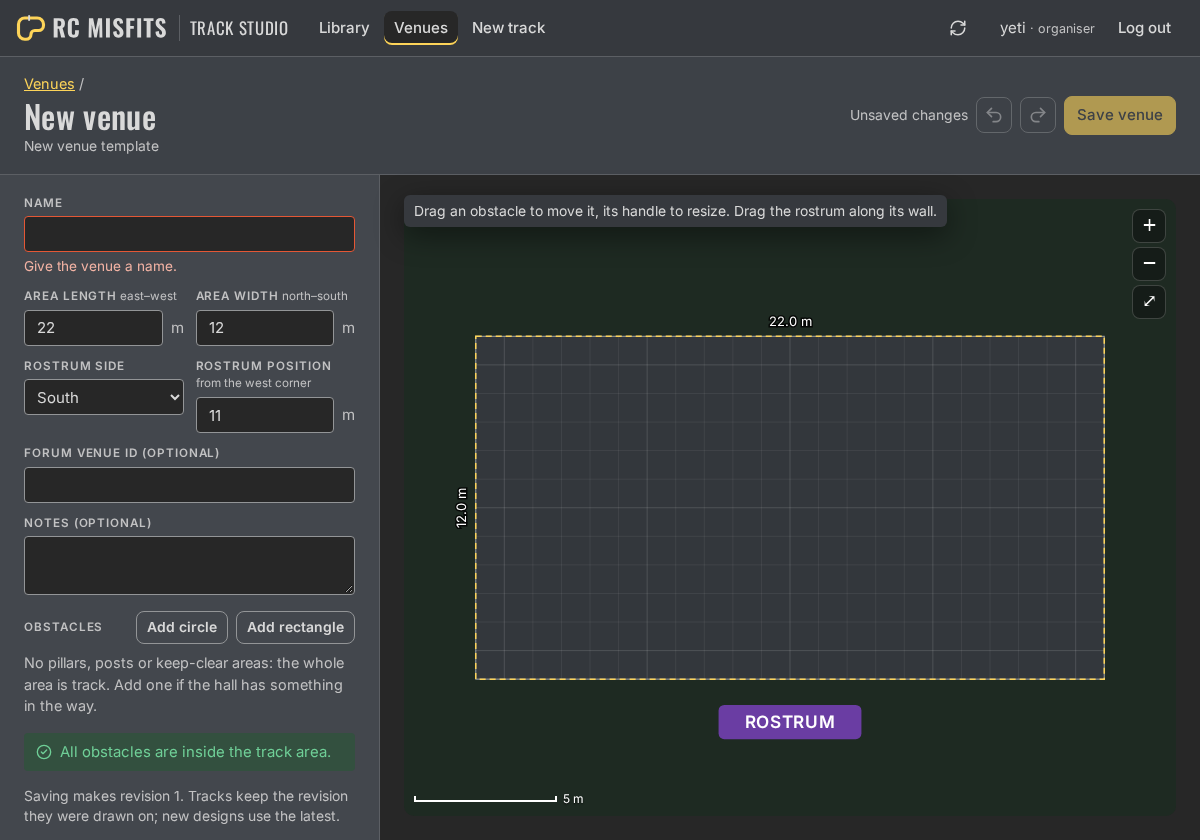
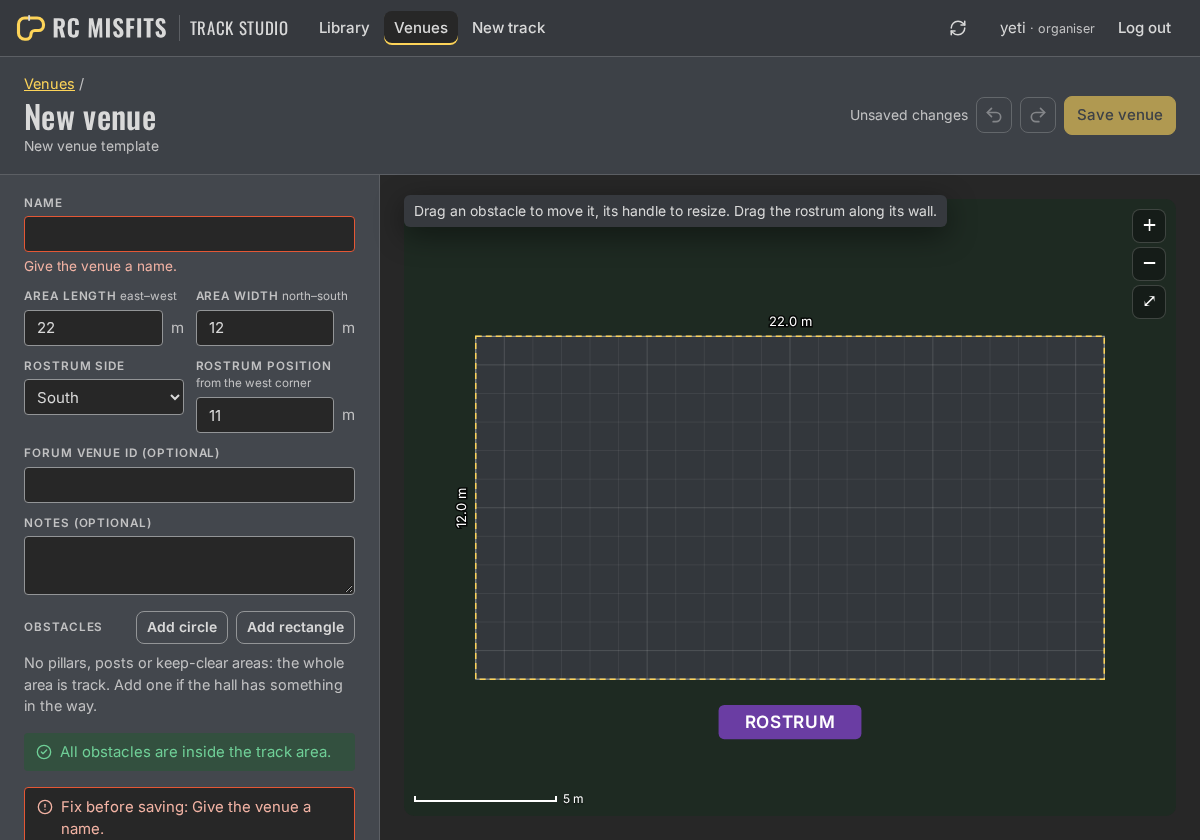
Venue editor review fixes: rostrum must stay on its wall, Save says what blocks it, exact rostrum field, recover from stale saves, safer Delete key (#12)

Changed region(s): [[0.0, 0.9286, 0.3083, 1.0]]

diff --git a/apps/web/src/venues/VenueEditor.tsx b/apps/web/src/venues/VenueEditor.tsx
@@ -13,8 +13,10 @@ import * as fmt from "../lib/format.js";
 import { rostrumPos } from "../lib/plan.js";
 import {
   addObstacle,
+  cornerWord,
   draftProblems,
   fromCorner,
+  MAX_OBSTACLES,
   moveObstacle,
   obstacleName,
   obstacleSummary,
@@ -61,7 +63,6 @@ const isTyping = (t: EventTarget | null) => t instanceof HTMLElement && (t.isCon
 /** Number fields report text that isn't a number (it doesn't reach the draft, so Save must wait). */
 const BadFieldCtx = createContext<(id: string, bad: boolean) => void>(() => {});
 
-const sideWord = (side: Side) => (side === "north" || side === "south" ? "west" : "south");
 
 export function VenueEditor({ initial, base: initialBase }: Props) {
   const navigate = useNavigate();
@@ -74,7 +75,7 @@ export function VenueEditor({ initial, base: initialBase }: Props) {
   const dirty = JSON.stringify(draft) !== savedJson;
   const [sel, setSel] = useState<Selection>(null);
   const [saving, setSaving] = useState(false);
-  const [message, setMessage] = useState<{ kind: "info" | "error"; text: string } | null>(null);
+  const [message, setMessage] = useState<{ kind: "info" | "error"; text: string; stale?: boolean } | null>(null);
 
   const problems = useMemo(() => draftProblems(draft), [draft]);
   const outside = useMemo(() => outsideObstacles(draft), [draft]);
@@ -131,7 +132,7 @@ export function VenueEditor({ initial, base: initialBase }: Props) {
       } else if (mod && e.key.toLowerCase() === "y") {
         e.preventDefault();
         hist.redo();
-      } else if ((e.key === "Delete" || e.key === "Backspace") && selRef.current?.kind === "obstacle") {
+      } else if ((e.key === "Delete" || e.key === "Backspace") && selRef.current?.kind === "obstacle" && !(e.target instanceof Element && e.target.closest("button, a"))) {
         e.preventDefault();
         deleteObstacle(selRef.current.i);
       } else if (e.key === "Escape") setSel(null);
@@ -163,12 +164,31 @@ export function VenueEditor({ initial, base: initialBase }: Props) {
       setMessage({ kind: "info", text: `Saved as revision ${res.venue.revision}.` });
     } catch (e) {
       const what = base ? `Couldn't save revision ${nextRevision}.` : "Couldn't save the venue.";
-      const why = e instanceof ApiError ? e.message : "The server didn't answer.";
-      setMessage({ kind: "error", text: `${what} ${why}${e instanceof ApiError && e.code === "stale" ? "" : " Your changes are still here; try Save again in a moment."}` });
+      const stale = e instanceof ApiError && e.code === "stale";
+      const why = stale ? "Someone else saved this venue since you opened it." : e instanceof ApiError ? e.message : "The server didn't answer.";
+      setMessage({ kind: "error", text: `${what} ${why} Your changes are still here${stale ? "." : "; try Save again in a moment."}`, stale });
     } finally {
       setSaving(false);
     }
   };
+
+  /** After a stale save: build on the latest revision, keeping this draft (saving then replaces what's in it). */
+  const rebase = async () => {
+    if (!base) return;
+    try {
+      const latest = await api<VenueBase>(`/api/venues/${encodeURIComponent(base.venue.id)}`);
+      setBase(latest);
+      setMessage({ kind: "info", text: `Revision ${latest.venue.revision} is the latest now (saved ${fmt.dateTime(latest.venue.updatedAt)}). Saving makes revision ${latest.venue.revision + 1} from your changes, replacing what's in it; open the venue page in another tab to compare first.` });
+    } catch (e) {
+      setMessage({ kind: "error", text: `Couldn't load the latest revision. ${e instanceof Error ? e.message : ""}` });
+    }
+  };
+
+  // what's stopping Save, in words (fields also show their own messages)
+  const blockers = [
+    ...Object.entries(problems).map(([k, v]) => (k.startsWith("obstacle-") ? `${obstacleName(draft.obstacles[Number(k.slice(9))])}: ${v}` : v)),
+    ...(badFields.size ? ["A number field holds something that isn't a number."] : []),
+  ];
 
   // ------------------------------------------------------------------------------------ dragging
   type Drag = { kind: "move"; i: number; offset: Point2 } | { kind: "resize"; i: number } | { kind: "rostrum"; offset: number };
@@ -299,14 +319,24 @@ export function VenueEditor({ initial, base: initialBase }: Props) {
           <button type="button" className="btn btn-icon" onClick={hist.redo} disabled={!hist.canRedo} aria-label="Redo" title="Redo (Ctrl+Shift+Z)">
             <Redo2 size={20} aria-hidden />
           </button>
-          <button type="button" className="btn btn-primary" onClick={save} disabled={saving || blocked || (!!base && !dirty)} title={blocked ? "Fix the fields marked in the form first" : undefined}>
+          <button type="button" className="btn btn-primary" onClick={save} disabled={saving || blocked || (!!base && !dirty)} aria-describedby={blocked ? "ve-blockers" : undefined}>
             {saving ? "Saving…" : base ? `Save as revision ${nextRevision}` : "Save venue"}
           </button>
         </div>
       </div>
       {message && (
         <div className="ve-msg">
-          <Message kind={message.kind}>{message.text}</Message>
+          <Message kind={message.kind}>
+            {message.text}
+            {message.stale && (
+              <>
+                {" "}
+                <button type="button" className="linkish" onClick={rebase}>
+                  Build on the latest revision
+                </button>
+              </>
+            )}
+          </Message>
         </div>
       )}
 
@@ -342,7 +372,7 @@ export function VenueEditor({ initial, base: initialBase }: Props) {
             />
             <NumberField
               label="Rostrum position"
-              hint={`from the ${sideWord(draft.rostrum.side)} corner`}
+              hint={`from the ${cornerWord(draft.rostrum.side)} corner`}
               value={toCorner(draft.area, draft.rostrum.side, draft.rostrum.offset)}
               unit="m"
               error={problems.rostrum}
@@ -365,10 +395,10 @@ export function VenueEditor({ initial, base: initialBase }: Props) {
                 Obstacles
               </span>
               <div className="row">
-                <button type="button" className="btn btn-sm" onClick={() => { update((d) => addObstacle(d, "circle")); setSel({ kind: "obstacle", i: draft.obstacles.length }); }}>
+                <button type="button" className="btn btn-sm" disabled={draft.obstacles.length >= MAX_OBSTACLES} onClick={() => { update((d) => addObstacle(d, "circle")); setSel({ kind: "obstacle", i: draft.obstacles.length }); }}>
                   Add circle
                 </button>
-                <button type="button" className="btn btn-sm" onClick={() => { update((d) => addObstacle(d, "rect")); setSel({ kind: "obstacle", i: draft.obstacles.length }); }}>
+                <button type="button" className="btn btn-sm" disabled={draft.obstacles.length >= MAX_OBSTACLES} onClick={() => { update((d) => addObstacle(d, "rect")); setSel({ kind: "obstacle", i: draft.obstacles.length }); }}>
                   Add rectangle
                 </button>
               </div>
@@ -382,6 +412,9 @@ export function VenueEditor({ initial, base: initialBase }: Props) {
                     <button type="button" className="ve-item-pick" aria-expanded={selected === i} onClick={() => setSel(selected === i ? null : { kind: "obstacle", i })}>
                       <span className="ve-item-name">{obstacleName(o)}</span>
                       <span className="ve-item-sum">{obstacleSummary(o)}</span>
+                      {selected !== i && (problems[`obstacle-${i}`] || outside.includes(i)) && (
+                        <span className="ve-help error">{problems[`obstacle-${i}`] ?? "Sticks out of the track area."}</span>
+                      )}
                     </button>
                     <button type="button" className="btn btn-quiet btn-icon" aria-label={`Delete ${obstacleName(o)}`} title="Delete" onClick={() => deleteObstacle(i)}>
                       <Trash2 size={16} aria-hidden />
@@ -403,6 +436,14 @@ export function VenueEditor({ initial, base: initialBase }: Props) {
               <span>
                 {outside.map((i) => obstacleName(draft.obstacles[i])).join(", ")} {outside.length === 1 ? "sticks" : "stick"} out of the track area. Move {outside.length === 1 ? "it" : "them"} in, or
                 make the area bigger.
+              </span>
+            </div>
+          )}
+          {blockers.length > 0 && (
+            <div className="ve-check bad" id="ve-blockers" role="status">
+              <CircleAlert size={16} aria-hidden />
+              <span>
+                Fix before saving: {blockers.join(" ")}
               </span>
             </div>
           )}

diff --git a/apps/web/src/venues/model.ts b/apps/web/src/venues/model.ts
@@ -60,7 +60,11 @@ export function draftProblems(d: VenueDraft): Problems {
   }
   const fid = d.info.venue?.id;
   if (fid !== undefined && !(Number.isInteger(fid) && fid > 0)) p.forumId = "Forum venue ID is a whole number.";
-  if (!Number.isFinite(d.rostrum.offset)) p.rostrum = "Rostrum position must be a number.";
+  const { side, offset } = d.rostrum;
+  if (!Number.isFinite(offset)) p.rostrum = "Rostrum position must be a number.";
+  else if (!p.length && !p.width && Math.abs(offset) > wallHalf(d.area, side) + 1e-9) {
+    p.rostrum = `The rostrum must be on its wall: 0 to ${fmtM(2 * wallHalf(d.area, side))} m from the ${cornerWord(side)} corner.`;
+  }
   if (d.obstacles.length > MAX_OBSTACLES) p.obstacles = `At most ${MAX_OBSTACLES} obstacles.`;
   d.obstacles.forEach((o, i) => {
     const msg = obstacleProblem(o);
@@ -82,9 +86,16 @@ function obstacleProblem(o: Obstacle): string | null {
 /** Half the length of the rostrum's wall: how far the offset can go each way. */
 const wallHalf = (area: Area, side: Side) => (side === "north" || side === "south" ? area.length : area.width) / 2;
 
-/** Offset from the wall's centre → metres from its west (north/south walls) or south (east/west walls) corner. */
-export const toCorner = (area: Area, side: Side, offset: number) => tenth(offset + wallHalf(area, side));
-export const fromCorner = (area: Area, side: Side, fromCornerM: number) => tenth(fromCornerM - wallHalf(area, side));
+/** The corner the form measures the rostrum from: west on the north/south walls, south on the east/west walls. */
+export const cornerWord = (side: Side) => (side === "north" || side === "south" ? "west" : "south");
+
+/** Rounding that only removes floating-point noise, so a typed value comes back exactly as typed. */
+const clean = (v: number) => Math.round(v * 1e6) / 1e6 || 0;
+const fmtM = (v: number) => String(clean(v));
+
+/** Offset from the wall's centre → metres from the wall's corner (cornerWord), and back. */
+export const toCorner = (area: Area, side: Side, offset: number) => clean(offset + wallHalf(area, side));
+export const fromCorner = (area: Area, side: Side, fromCornerM: number) => clean(fromCornerM - wallHalf(area, side));
 
 /** The rostrum's offset for a pointer at `p` while it is dragged along its wall. */
 export function rostrumOffsetAt(area: Area, side: Side, p: Point2): number {

diff --git a/apps/web/test/venue-model.test.ts b/apps/web/test/venue-model.test.ts
@@ -56,6 +56,11 @@ describe("venue documents", () => {
     expect(draftProblems({ ...hall(), info: { name: "Hall", venue: { id: 1.5 } } }).forumId).toBe("Forum venue ID is a whole number.");
     expect(draftProblems({ ...hall(), obstacles: [{ type: "circle", x: 0, z: 0, radius: 0 }] })["obstacle-0"]).toBe("Radius must be more than 0 m.");
     expect(draftProblems({ ...hall(), obstacles: [{ type: "rect", x: 0, z: Number.NaN, length: 1, width: 1 }] })["obstacle-0"]).toBe("Position must be a number.");
+    // the rostrum stays on its wall, also when the area shrinks under it
+    expect(draftProblems({ ...hall(), rostrum: { side: "south", offset: 11 } }).rostrum).toBeUndefined();
+    expect(draftProblems({ ...hall(), rostrum: { side: "south", offset: 19 } }).rostrum).toBe("The rostrum must be on its wall: 0 to 22 m from the west corner.");
+    expect(draftProblems({ ...hall(), area: { length: 22, width: 8 }, rostrum: { side: "east", offset: -5 } }).rostrum).toBe("The rostrum must be on its wall: 0 to 8 m from the south corner.");
+    expect(Object.keys(draftProblems({ ...hall(), obstacles: Array.from({ length: 101 }, () => hall().obstacles[0]) }))).toEqual(["obstacles"]);
   });
 });
 
@@ -66,6 +71,8 @@ describe("rostrum", () => {
     expect(fromCorner(area, "south", 7)).toBe(-4);
     expect(toCorner(area, "east", 0)).toBe(6);
     expect(fromCorner(area, "west", 12)).toBe(6);
+    // what's typed comes back exactly, so the field doesn't rewrite itself mid-entry
+    for (const typed of [5.55, 0.01, 21.99]) expect(toCorner(area, "south", fromCorner(area, "south", typed))).toBe(typed);
   });
 
   it("dragging slides it along its wall, kept on the wall, to 0.1 m", () => {

diff --git a/apps/web/src/styles.css b/apps/web/src/styles.css
@@ -361,6 +361,7 @@ textarea.ve-input { height: auto; padding: 6px 12px; resize: vertical; }
 .ve-check { display: flex; gap: 8px; align-items: flex-start; padding: 8px 12px; border-radius: 4px; font-size: 0.93rem; }
 .ve-check svg { flex: none; margin-top: 3px; }
 .ve-check.ok { background: var(--positive-soft); color: var(--positive); }
+.ve-check.bad { background: var(--selected); color: var(--danger-text); border: 1px solid var(--danger); }
 .ve-check.warn { background: var(--selected); color: var(--warning); border: 1px solid var(--warning); }
 .ve-note { margin: 0; font-size: 0.87rem; line-height: 1.4; color: var(--muted); }
 .ve-plan-wrap { position: relative; min-width: 0; min-height: 0; padding: 24px; background: var(--selected); display: flex; }

diff --git a/apps/server/test/venues.test.ts b/apps/server/test/venues.test.ts
@@ -28,6 +28,7 @@ describe("venue editing permissions", () => {
   it("organisers and forum admins create and edit; members and visitors can't", async () => {
     const { app, alice, org, admin } = await setup();
     expect((await req(app, "POST", "/api/venues", undefined, newVenue())).statusCode).toBe(401);
+    expect((await req(app, "PUT", "/api/venues/venue-1", undefined, newVenue())).statusCode).toBe(401);
     expect((await req(app, "POST", "/api/venues", alice, newVenue())).statusCode).toBe(403);
     expect((await req(app, "PUT", "/api/venues/venue-1", alice, newVenue())).statusCode).toBe(403);
     expect((await req(app, "POST", "/api/venues", org, newVenue())).statusCode).toBe(201);
